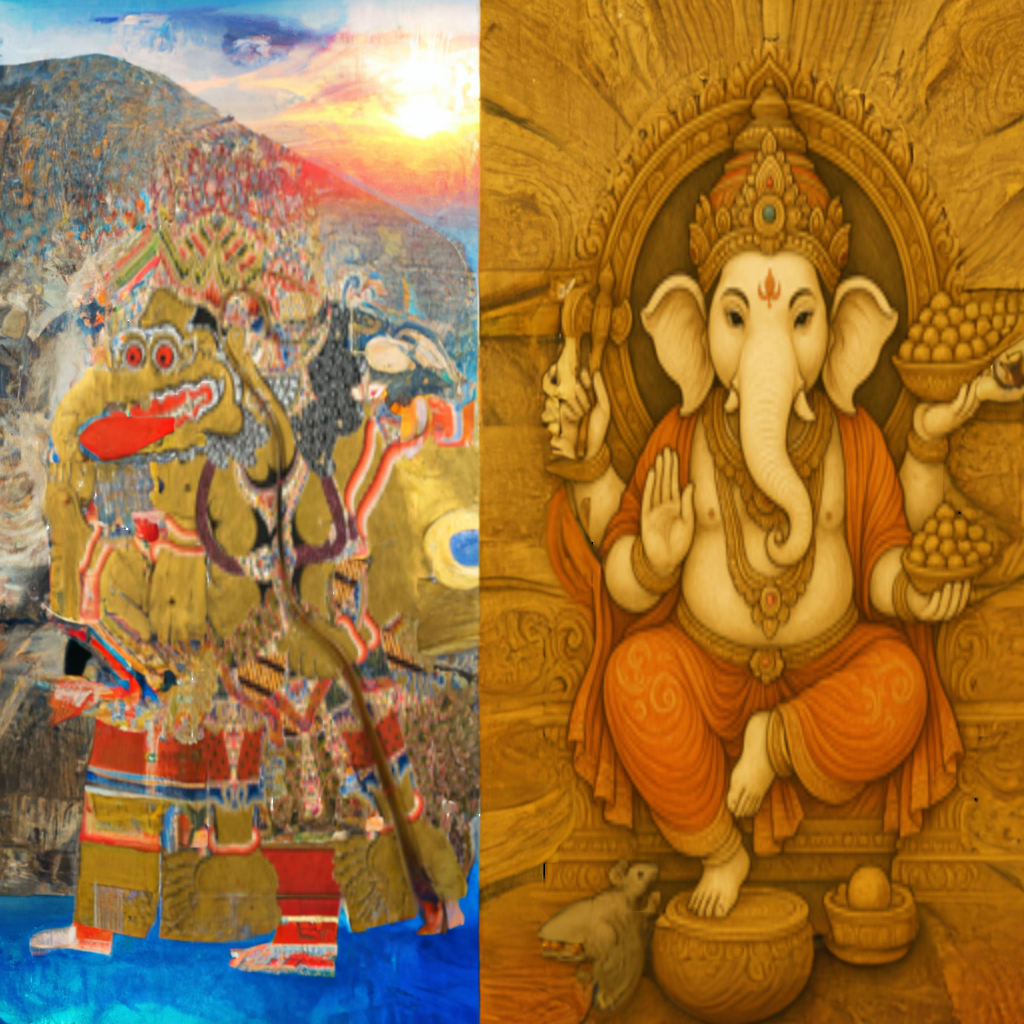
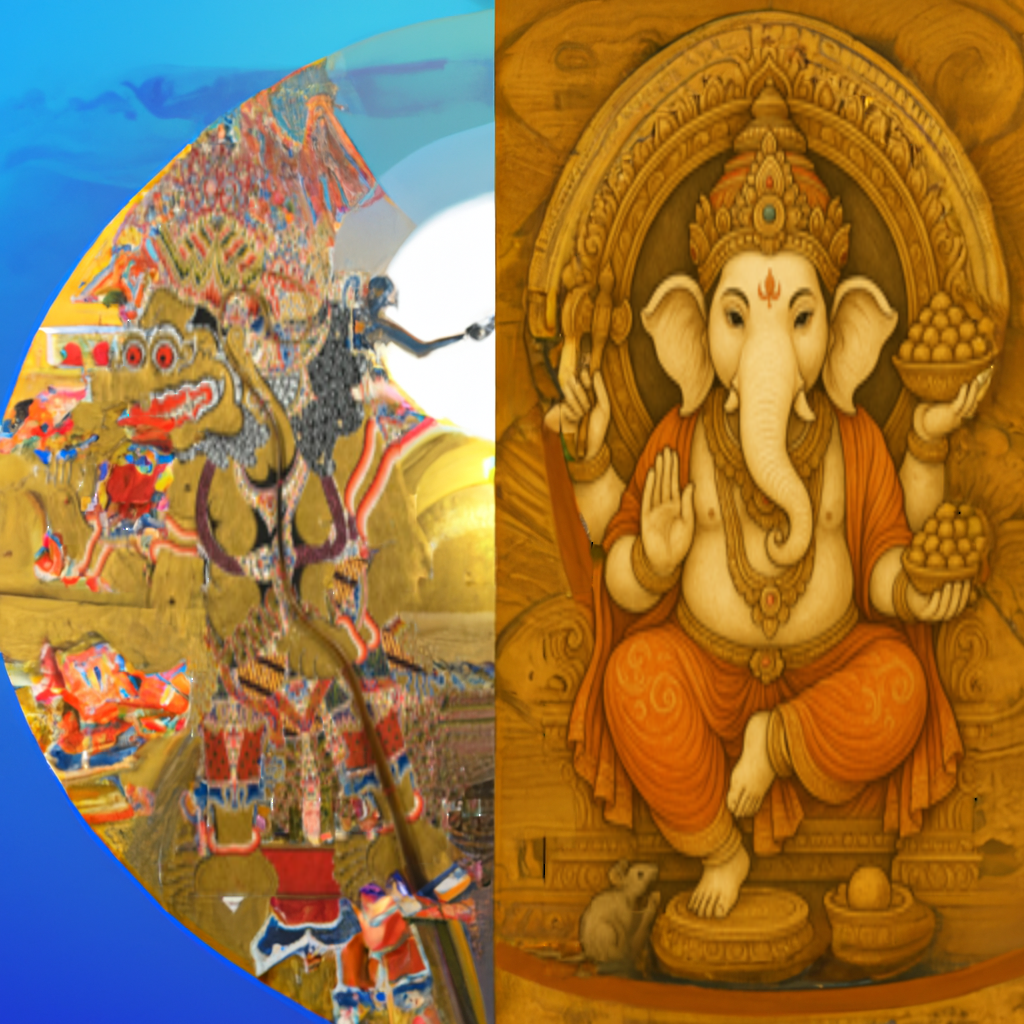
adjust ui and preview images

diff --git a/Code/openai-chatgpt/input control/applications/demo.py b/Code/openai-chatgpt/input control/applications/demo.py
@@ -63,14 +63,20 @@ def edit_first_image():
     path = filedialog.askopenfilename(filetypes=[("PNG files", "*.png;*.jpg;*.jpeg;*.gif;*.bmp;*.tiff;*")])
     if path:
         edit_base_image_path = path
-        edit_base_label.config(text=f"Base Selected: {os.path.basename(path)}")
+        img = Image.open(path).resize((256, 256))  
+        img_tk = ImageTk.PhotoImage(img)
+        edit_base_label.config(image=img_tk, text="")
+        edit_base_label.image = img_tk
 
 def edit_second_image():
     global edit_second_image_path
     path = filedialog.askopenfilename(filetypes=[("PNG files", "*.png;*.jpg;*.jpeg;*.gif;*.bmp;*.tiff;*")])
     if path:
         edit_second_image_path = path
-        edit_second_label.config(text=f"Second Selected: {os.path.basename(path)}")
+        img = Image.open(path).resize((256, 256))  
+        img_tk = ImageTk.PhotoImage(img)
+        edit_second_label.config(image=img_tk, text="")
+        edit_second_label.image = img_tk
 
 from math import ceil, sqrt
 
@@ -160,14 +166,20 @@ def first_image():
     path = filedialog.askopenfilename(filetypes=[("PNG files", "*.png;*.jpg;*.jpeg;*.gif;*.bmp;*.tiff;*")])
     if path:
         base_image_path = path
-        mask_base_label.config(text=f"Base: {os.path.basename(path)}")
+        img = Image.open(path).resize((256, 256))  
+        img_tk = ImageTk.PhotoImage(img)
+        mask_base_label.config(image=img_tk, text="")
+        mask_base_label.image = img_tk
 
 def second_image():
     global mask_image_path
     path = filedialog.askopenfilename(filetypes=[("PNG files", "*.png;*.jpg;*.jpeg;*.gif;*.bmp;*.tiff;*")])
     if path:
         mask_image_path = path
-        mask_mask_label.config(text=f"Mask: {os.path.basename(path)}")
+        img = Image.open(path).resize((256, 256))  
+        img_tk = ImageTk.PhotoImage(img)
+        mask_second_label.config(image=img_tk, text="")
+        mask_second_label.image = img_tk
 
 def apply_mask_edit():
     
@@ -226,11 +238,13 @@ tab_control = ttk.Notebook(root)
 generate_tab = ttk.Frame(tab_control)
 tab_control.add(generate_tab, text='⚙ 🛠 Image Generator')
 
-tk.Label(generate_tab, text="Prompt for Generation:").pack(pady=15)
+tk.Label(generate_tab, text="This uses two images to generate a new Image with something you want in a background or other instruction").pack(pady=10)
+
+tk.Label(generate_tab, text="Write in the prompt below an image you want generated:").pack(pady=15)
 gen_prompt_entry = tk.Entry(generate_tab, width=75)
 gen_prompt_entry.pack(pady=15)
 
-tk.Button(generate_tab, text="Generate Image", command=generate_image).pack(pady=15)
+tk.Button(generate_tab, text="Generate The Image", command=generate_image).pack(pady=10)
 
 gen_image_label = tk.Label(generate_tab)
 gen_image_label.pack(pady=10)
@@ -238,27 +252,28 @@ gen_image_label.pack(pady=10)
 generator_result = tk.Label(generate_tab, text="")
 generator_result.pack()
 
-tk.Button(generate_tab, text="Save Image", command=save_generated_image).pack(pady=15)
+tk.Button(generate_tab, text="Save Your Image", command=save_generated_image).pack(pady=10)
 
 # Edit Tab
 edit_tab = ttk.Frame(tab_control)
 tab_control.add(edit_tab, text='-ˋˏ✄┈┈┈┈ 🎨 Image Editor')
 
+tk.Label(edit_tab, text="This uses two images to be edited with a prompt. For example: combine the two images with a sunset background").pack(pady=10)
+
 edit_image_path = tk.StringVar()
 
-tk.Label(edit_tab, text="Enter prompt here to Edit the image(s):").pack(pady=15)
-edit_prompt_entry = tk.Entry(edit_tab, width=60)
-edit_prompt_entry.pack(pady=5)
-
-tk.Button(edit_tab, text="Select Base Image", command=edit_first_image).pack(pady=10)
+tk.Button(edit_tab, text="Select First Image", command=edit_first_image).pack(pady=10)
 edit_base_label = tk.Label(edit_tab, text="No base image selected yet")
 edit_base_label.pack(pady=5)
 
 tk.Button(edit_tab, text="Select Second Image", command=edit_second_image).pack(pady=10)
 edit_second_label = tk.Label(edit_tab, text="No second image selected yet")
-edit_second_label.pack(pady=5)
+edit_second_label.pack(pady=10)
 
-tk.Button(edit_tab, text="Edit Image(s)", command=image_editor).pack(pady=15)
+tk.Label(edit_tab, text="Write in the prompt an instruction for the images to be edited:").pack(pady=10)
+edit_prompt_entry = tk.Entry(edit_tab, width=60)
+edit_prompt_entry.pack(pady=10)
+tk.Button(edit_tab, text="Edit Both Images", command=image_editor).pack(pady=15)
 
 # Show result
 edit_image_label = tk.Label(edit_tab)
@@ -269,20 +284,21 @@ edit_result_label.pack()
 
 tk.Button(edit_tab, text="Save Edited Image", command=save_edited_image).pack(pady=15)
 
-
 # Mask Tab
 mask_tab = ttk.Frame(tab_control)
-tab_control.add(mask_tab, text='🖌 🎭 Image Mask/Layer Editor')
+tab_control.add(mask_tab, text='🖌 🎭 Image Layering')
 
-tk.Button(mask_tab, text="Select Your Base/First Image", command=first_image).pack(pady=15)
+tk.Label(mask_tab, text="This uses two images to layer one image on top of another to generate a new image.").pack(pady=10)
+
+tk.Button(mask_tab, text="Select Your First Image", command=first_image).pack(pady=20)
 mask_base_label = tk.Label(mask_tab, text="No base image selected")
 mask_base_label.pack(pady=15)
 
-tk.Button(mask_tab, text="Select Your Mask/Second Image", command=second_image).pack(pady=15)
-mask_mask_label = tk.Label(mask_tab, text="No mask image selected")
-mask_mask_label.pack(pady=15)
+tk.Button(mask_tab, text="Select Your Second Image", command=second_image).pack(pady=20)
+mask_second_label = tk.Label(mask_tab, text="No mask image selected")
+mask_second_label.pack(pady=20)
 
-tk.Button(mask_tab, text="Apply Your Base and Mask Together", command=apply_mask_edit).pack(pady=15)
+tk.Button(mask_tab, text="Apply Your Layering for Both IMages", command=apply_mask_edit).pack(pady=20)
 
 mask_result_image = tk.Label(mask_tab)
 mask_result_image.pack(pady=10)
